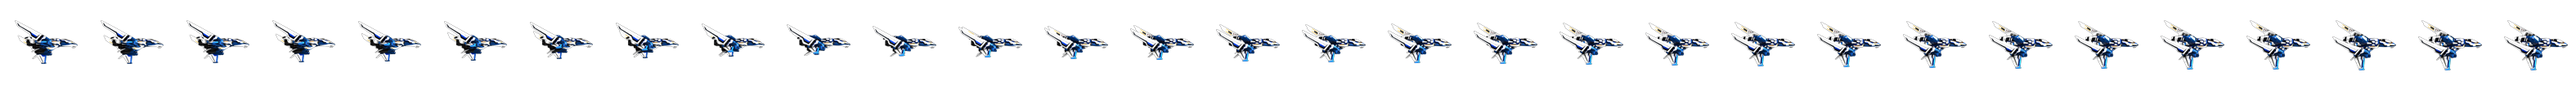
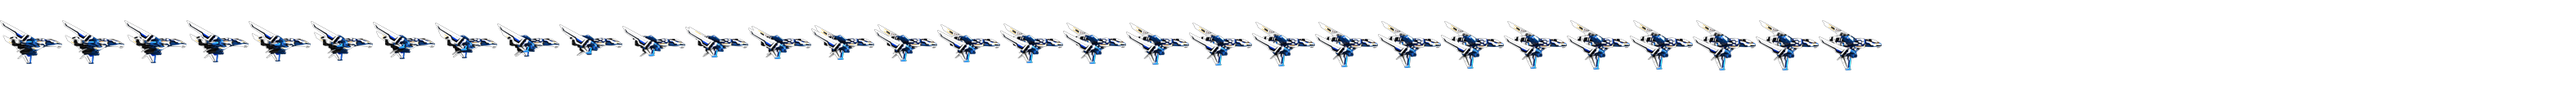
fix

Changed region(s): [[0.0, 0.2857, 1.0, 0.8]]

diff --git a/ImageProc/Program.cs b/ImageProc/Program.cs
@@ -10,18 +10,19 @@ namespace ImageProc
         static void Main(string[] args)
         {            
             Console.WriteLine("----------------- Image Processing -------------");
-            Console.WriteLine(">> Cmd (build for all)");
+            Console.WriteLine(">> Cmd ('build' for all)");
 
             // ---------------------------------------------------------------------------
             // minimizar numero de arquivos em um ( +- 50% tamanho, +- 80% tempo load)
             // ---------------------------------------------------------------------------
 
-            var dest = Console.ReadLine();  // "Players\\Blue"
+            var dest = Console.ReadLine(); 
 
             if (dest == "build")
             {
-                Proc("Players\\Blue", "cw_blue");
+                ProcX("Players\\Blue", "cw_blue");
                 Proc("Players\\Red", "cw_red");
+
                 Console.WriteLine();
                 Console.WriteLine(">> ------ Build Complete! ------------");
                 Console.WriteLine();
@@ -34,6 +35,97 @@ namespace ImageProc
 
                 Proc(dest, prefix);
             }
+        }
+
+        static void ProcX(string destino, string prefix)
+        {
+            string BaseApp = "CrossPlat";
+            string currentDir = Directory.GetCurrentDirectory() + "\\" + BaseApp + "\\Content\\Images\\";
+            currentDir = currentDir.Replace("ImageProc\\bin\\Release\\", "");
+            string dir = currentDir + destino;
+
+            Console.WriteLine(dir);
+
+            if (!Directory.Exists(dir))
+            {
+                Console.WriteLine("Diretório não existe");
+                return;
+            }
+
+            var sample = new Bitmap(dir + "\\" + prefix + (new DirectoryInfo(dir).GetFiles().Length < 100 ? "01.png" : "0001.png"));
+
+            string fileTargetName = dir + "\\" + prefix + "_min.png",
+                    fileTargetNameMap = dir + "\\" + prefix + "_min.txt";
+
+            Console.WriteLine(" >> target mini => " + fileTargetName);
+
+            if (File.Exists(fileTargetName)) File.Delete(fileTargetName);
+            if (File.Exists(fileTargetNameMap)) File.Delete(fileTargetNameMap);
+
+            int totFrames = new DirectoryInfo(dir).GetFiles().Length,
+                widthPadrao = sample.Width,
+                totHeight = sample.Height;
+
+            Console.WriteLine(" widthPadrao => " + widthPadrao);
+            Console.WriteLine(" totFrames => " + totFrames);
+            Console.WriteLine(" totHeight => " + totHeight);
+
+            FileInfo fi = new FileInfo(fileTargetName);
+            FileStream fstr = fi.Create();
+            Bitmap finalBitmap = new Bitmap(widthPadrao * totFrames, totHeight);
+            fstr.Close();
+            fi.Delete();
+
+            using (var sw = new StreamWriter(fileTargetNameMap))
+            {
+                int xCustomAcc = 0;
+
+                for (int i = 1; i <= totFrames; i++)
+                {
+                    var currentFrame = dir + "\\" + prefix + (totFrames < 100 ? i.ToString("00") : i.ToString("000")) + ".png";
+
+                    Console.WriteLine(" currentFrame => " + currentFrame);
+
+                    var sampleItem = new Bitmap(currentFrame);
+
+                    using (Graphics grD = Graphics.FromImage(finalBitmap))
+                    {
+                        int minX = 99999, maxX = 0;
+
+                        for (int y = 0; y < totHeight; y++)
+                            for (int x = 0; x < widthPadrao; ++x)
+                            {
+                                Color utd = sampleItem.GetPixel(x, y);
+
+                                if (utd.A > 0)
+                                {
+                                    if (x < minX) minX = x;
+                                    if (x > maxX) maxX = x;
+                                }
+                            }
+
+                        int curSafeWidth = maxX - minX;
+
+                        Rectangle destRegion = new Rectangle(xCustomAcc, 0, curSafeWidth, totHeight);
+                        Rectangle srcRegion = new Rectangle(minX, 0, curSafeWidth, totHeight);
+
+                        sw.Write(destRegion.X.ToString()); sw.Write(",");
+                        sw.Write(destRegion.Y.ToString()); sw.Write(",");
+                        sw.Write(destRegion.Width.ToString()); sw.Write(",");
+                        sw.Write(destRegion.Height.ToString()); sw.Write(";");
+
+                        grD.DrawImage(sampleItem, destRegion, srcRegion, GraphicsUnit.Pixel);
+
+                        xCustomAcc += curSafeWidth;
+                    }
+                }
+            }
+
+            finalBitmap.Save("test.png", ImageFormat.Png);
+            File.Move("test.png", fileTargetName);
+
+            Console.WriteLine(" >> Salvo com sucesso! ");
+            Console.WriteLine();
         }
 
         static void Proc (string destino, string prefix )
@@ -84,9 +176,23 @@ namespace ImageProc
                     Console.WriteLine(" currentFrame => " + currentFrame);
 
                     var sampleItem = new Bitmap(currentFrame);
-
+                    
                     using (Graphics grD = Graphics.FromImage(finalBitmap))
                     {
+                        int minX = 99999, maxX = 0;
+
+                        for (int y = 0; y < totHeight; y++)
+                            for (int x = 0; x < widthPadrao; ++x)
+                            {
+                                Color utd = sampleItem.GetPixel(x, y);
+
+                                if (utd.A > 0)
+                                {
+                                    if (x < minX) minX = x;
+                                    if (x > maxX) maxX = x;
+                                }
+                            }
+
                         Rectangle destRegion = new Rectangle((i - 1) * widthPadrao, 0, widthPadrao, totHeight);
                         Rectangle srcRegion = new Rectangle(0, 0, widthPadrao, totHeight);
 
